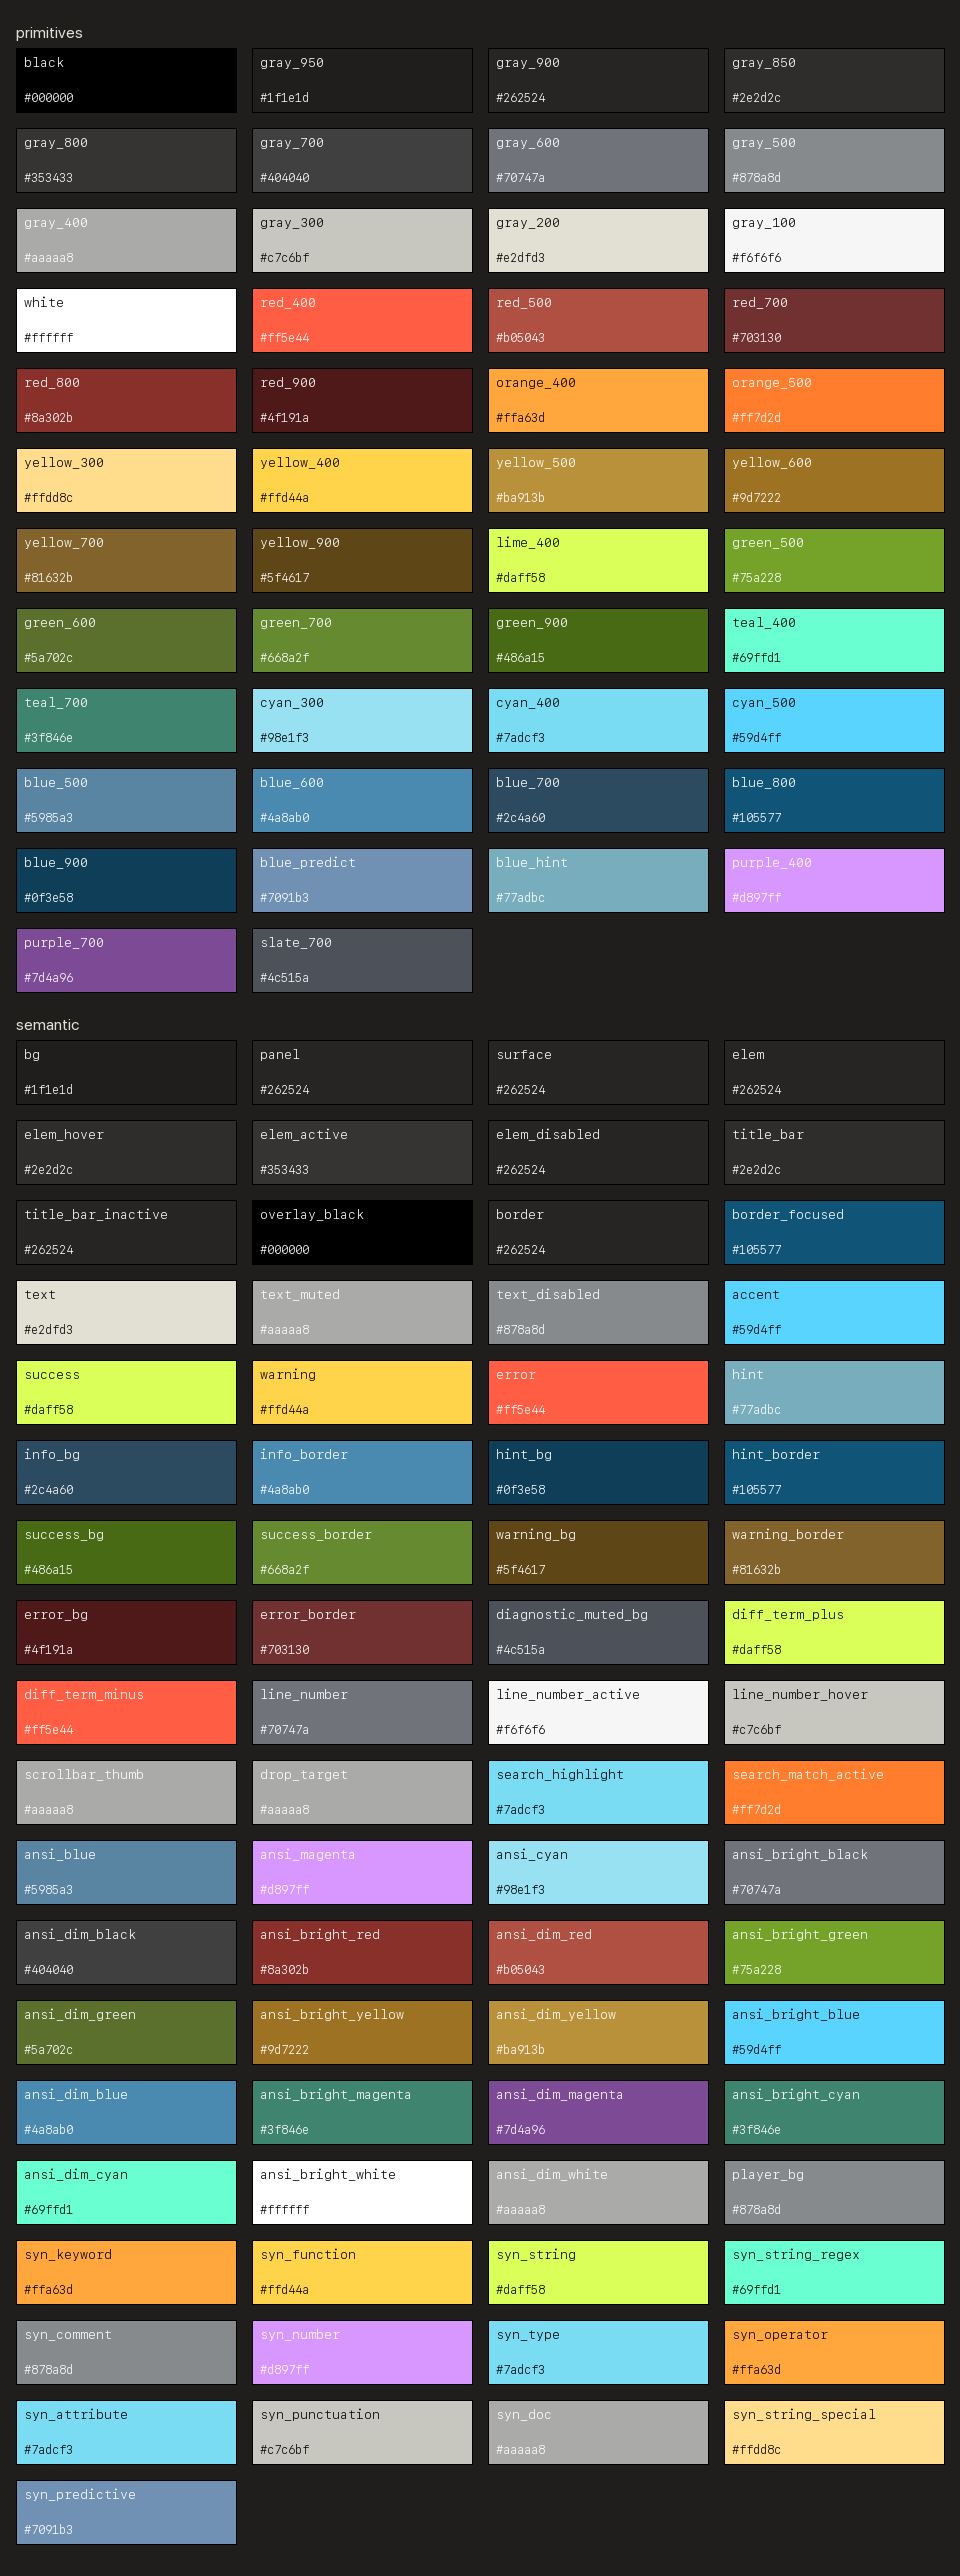
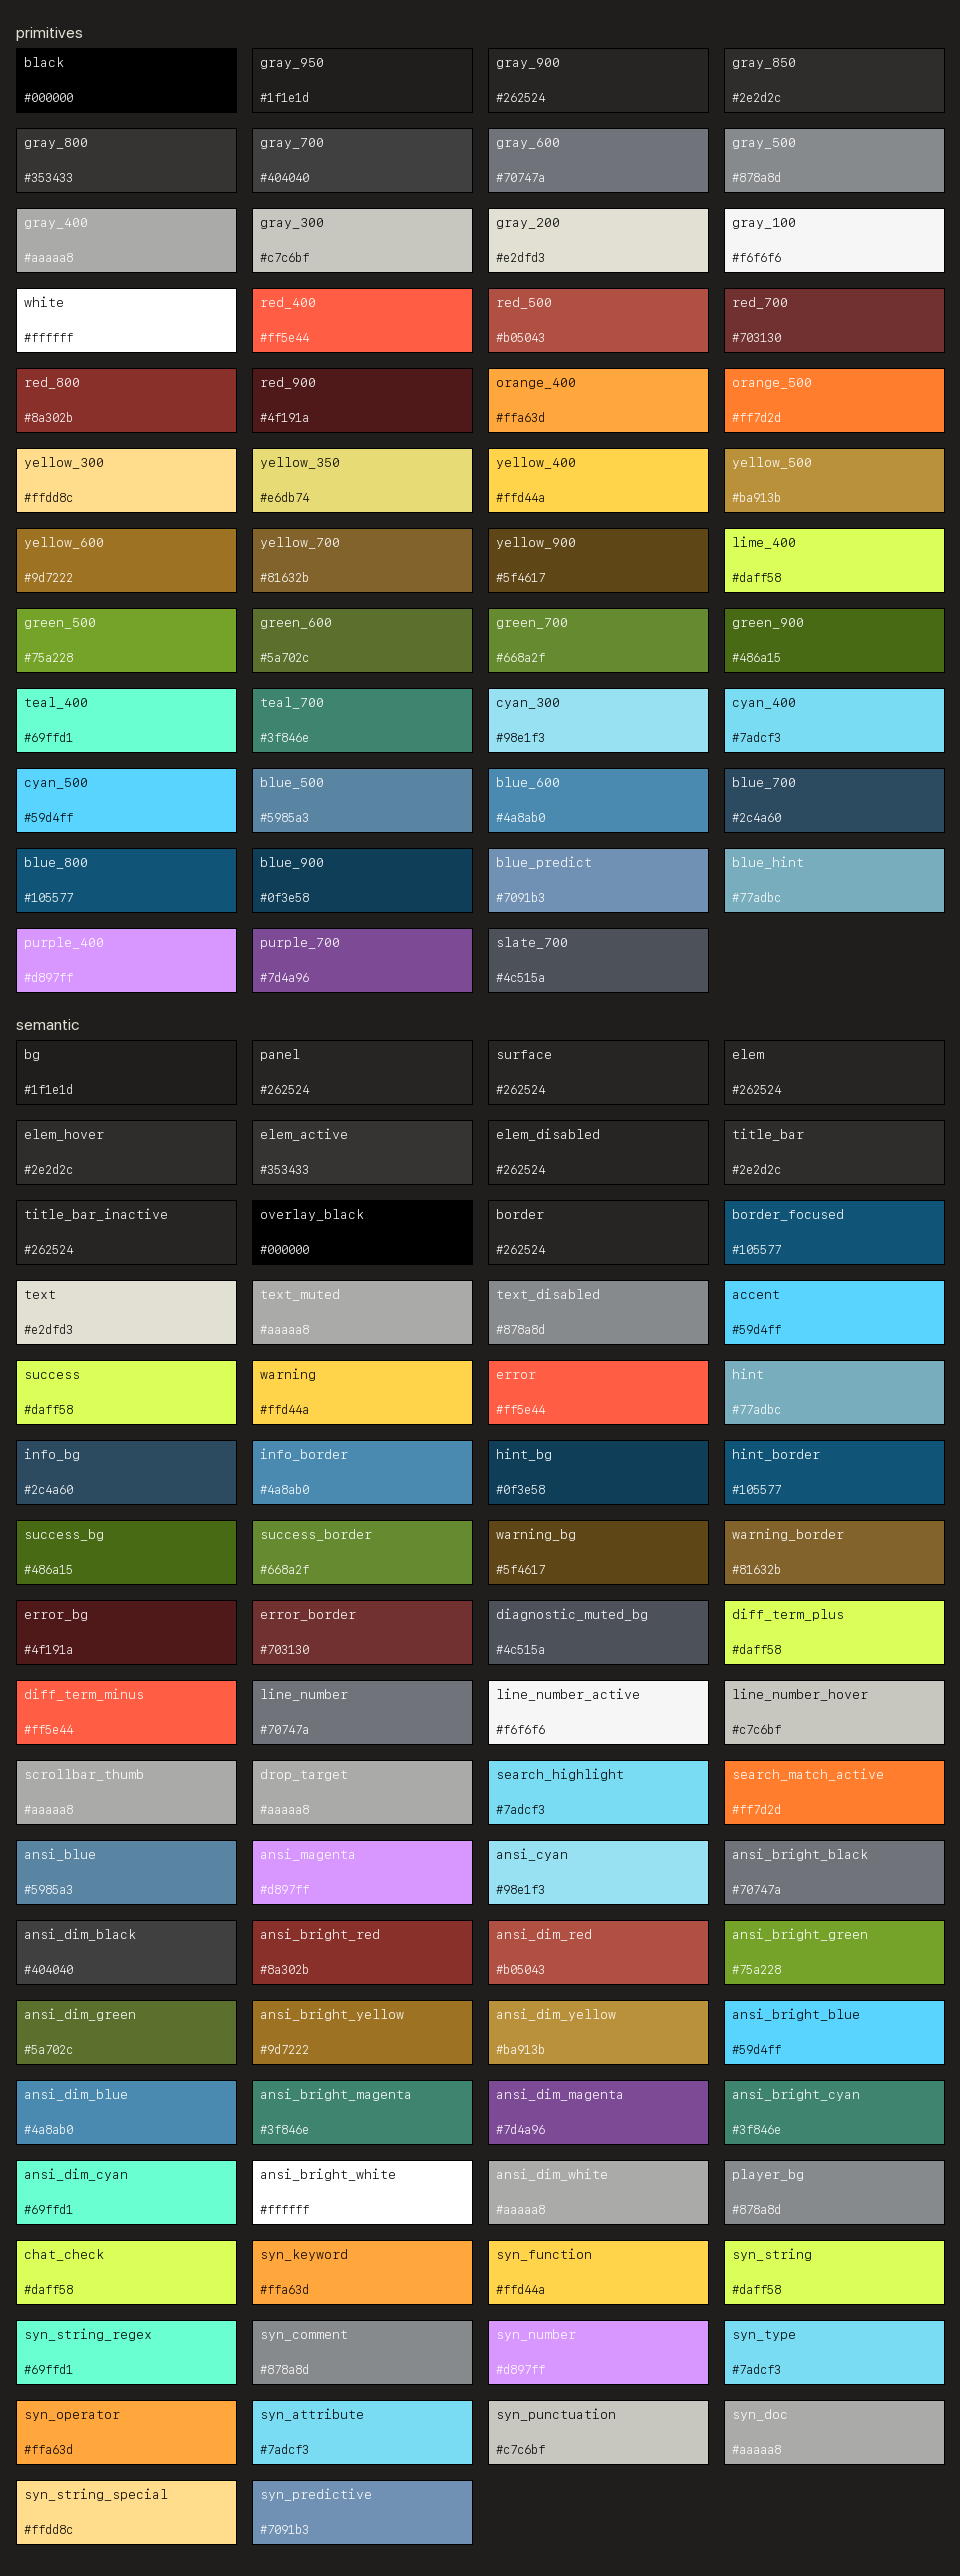
Add chat_check token and apply to Telegram targets
- Add chat_check and yellow_350 palette tokens
- Extend Palette with chat_check field
- Use chat_check (or ansi_cyan) in Telegram color map
- Use chat_check for iOS checkmarks and related text colors
- Update iOS theme textHighlight to match chat_check

Changed region(s): [[0.0, 0.1553, 1.0, 0.4037], [0.0, 0.8696, 1.0, 0.9938]]

diff --git a/telegram/build.py b/telegram/build.py
@@ -22,7 +22,7 @@ def build_telegram(p: Palette) -> str:
         ("windowBg",                  p.bg),
         ("windowBgOver",              p.elem_hover),
         ("windowBgRipple",            p.elem_active),
-        ("windowBgActive",            p.search_highlight),
+        ("windowBgActive",            p.ansi_cyan),
         ("windowFg",                  p.text),
         ("windowFgOver",              p.text),
         ("windowSubTextFg",           p.text_muted),
@@ -30,7 +30,7 @@ def build_telegram(p: Palette) -> str:
         ("windowBoldFg",              p.text),
         ("windowBoldFgOver",          p.text),
         ("windowFgActive",            p.bg),
-        ("windowActiveTextFg",        p.search_highlight),
+        ("windowActiveTextFg",        p.ansi_cyan),
 
         ("sideBarBg",                 p.panel),
         ("sideBarBgActive",           p.elem_active),
@@ -55,7 +55,7 @@ def build_telegram(p: Palette) -> str:
         ("dialogsTextFgActive",       p.text),
         ("dialogsDateFg",             p.text_muted),
         ("dialogsDateFgActive",       p.text_muted),
-        ("dialogsUnreadBg",           p.search_highlight),
+        ("dialogsUnreadBg",           p.ansi_cyan),
         ("dialogsUnreadBgMuted",      p.text_muted),
         ("dialogsUnreadFg",           p.bg),
         ("dialogsUnreadFgActive",     p.bg),
@@ -66,11 +66,11 @@ def build_telegram(p: Palette) -> str:
         ("msgOutBgSelected",          p.elem_active),
         ("msgInDateFg",               p.text_muted),
         ("msgOutDateFg",              p.text_muted),
-        ("msgInServiceFg",            p.search_highlight),
-        ("msgOutServiceFg",           p.search_highlight),
+        ("msgInServiceFg",            p.ansi_cyan),
+        ("msgOutServiceFg",           p.ansi_cyan),
         ("msgInMonoFg",               p.syn_string),
         ("msgOutMonoFg",              p.syn_string),
-        ("msgInReplyBarColor",        p.search_highlight),
+        ("msgInReplyBarColor",        p.ansi_cyan),
         ("msgOutReplyBarColor",       p.syn_function),
         ("msgServiceBg",              p.panel),
         ("msgServiceFg",              p.text_muted),
@@ -85,18 +85,18 @@ def build_telegram(p: Palette) -> str:
         # "Unread messages" divider in chat view — defaults render near-white.
         ("historyUnreadBarBg",        p.panel),
         ("historyUnreadBarBorder",    p.border),
-        ("historyUnreadBarFg",        p.search_highlight),
+        ("historyUnreadBarFg",        p.ansi_cyan),
 
-        ("activeButtonBg",            p.search_highlight),
-        ("activeButtonBgOver",        p.search_highlight),
+        ("activeButtonBg",            p.ansi_cyan),
+        ("activeButtonBgOver",        p.ansi_cyan),
         ("activeButtonFg",            p.bg),
         ("activeButtonFgOver",        p.bg),
         ("activeButtonSecondaryFg",       p.bg),
         ("activeButtonSecondaryFgOver",   p.bg),
         ("lightButtonBg",             p.elem),
         ("lightButtonBgOver",         p.elem_hover),
-        ("lightButtonFg",             p.search_highlight),
-        ("lightButtonFgOver",         p.search_highlight),
+        ("lightButtonFg",             p.ansi_cyan),
+        ("lightButtonFgOver",         p.ansi_cyan),
 
         ("scrollBg",                  p.panel),
         ("scrollBgOver",              p.elem_hover),
@@ -105,15 +105,15 @@ def build_telegram(p: Palette) -> str:
 
         ("boxTextFgGood",             p.success),
 
-        # Outgoing message check ticks (✓ / ✓✓) — palette green so bubble +
-        # chat-list match each other and the terminal's ANSI green.
-        ("historyOutIconFg",          p.success),
-        ("historyOutIconFgSelected",  p.success),
-        ("historySendingOutIconFg",   p.success),
-        ("historyIconFgInverted",     p.success),
-        ("dialogsSentIconFg",         p.success),
-        ("dialogsSentIconFgOver",     p.success),
-        ("dialogsSentIconFgActive",   p.success),
+        # Outgoing message check ticks (✓ / ✓✓) — warm yellow pops more than
+        # green against the bubble bg without competing with status colors.
+        ("historyOutIconFg",          p.chat_check),
+        ("historyOutIconFgSelected",  p.chat_check),
+        ("historySendingOutIconFg",   p.chat_check),
+        ("historyIconFgInverted",     p.chat_check),
+        ("dialogsSentIconFg",         p.chat_check),
+        ("dialogsSentIconFgOver",     p.chat_check),
+        ("dialogsSentIconFgActive",   p.chat_check),
         ("boxTextFgError",            p.error),
         ("activeLineFgError",         p.error),
         ("attentionButtonFg",         p.warning),
@@ -136,7 +136,7 @@ def build_telegram(p: Palette) -> str:
         ("menuSeparatorFg",           p.elem),
 
         ("mentionBg",                 p.elem),
-        ("mentionFg",                 p.search_highlight),
+        ("mentionFg",                 p.ansi_cyan),
     ]
     lines = ["// Ayu Mirage High Contrast — Telegram Desktop palette", ""]
     lines += [f"{k}: {v};" for k, v in pairs]

diff --git a/telegram_ios/build.py b/telegram_ios/build.py
@@ -172,7 +172,7 @@ def build_ios(p: Palette) -> dict:
             "messageText": h(p.text_muted),
             "messageHighlightedText": h(p.text),
             "messageDraftText": h(p.warning),
-            "checkmark": h(p.success),
+            "checkmark": h(p.chat_check),
             "pendingIndicator": h(p.text_muted),
             "failedFill": h(p.error),
             "failedFg": h(p.text),
@@ -212,7 +212,7 @@ def build_ios(p: Palette) -> dict:
                 },
                 "infoPrimaryText": h(p.text),
                 "infoLinkText": h(accent),
-                "outgoingCheck": h(p.success),
+                "outgoingCheck": h(p.chat_check),
                 "mediaDateAndStatusBg": a("7f", p.overlay_black),
                 "mediaDateAndStatusText": h(p.text),
                 "shareButtonBg":     {"withWp": a("7f", p.panel), "withoutWp": a("7f", p.panel)},
@@ -360,7 +360,7 @@ def _bubble_side(p: Palette, bg: str, accent: str, *, outgoing: bool) -> dict:
         "linkText": h(accent),
         "linkHighlight": a("7f", accent),
         "scam": h(p.error),
-        "textHighlight": h(p.warning),
+        "textHighlight": h(p.chat_check),
         "accentText": h(accent),
         "accentControl": h(accent),
         "mediaActiveControl": h(accent),

diff --git a/palette.py b/palette.py
@@ -82,6 +82,8 @@ class Palette:
 
     player_bg: str
 
+    chat_check: str
+
     syn_keyword: str
     syn_function: str
     syn_string: str